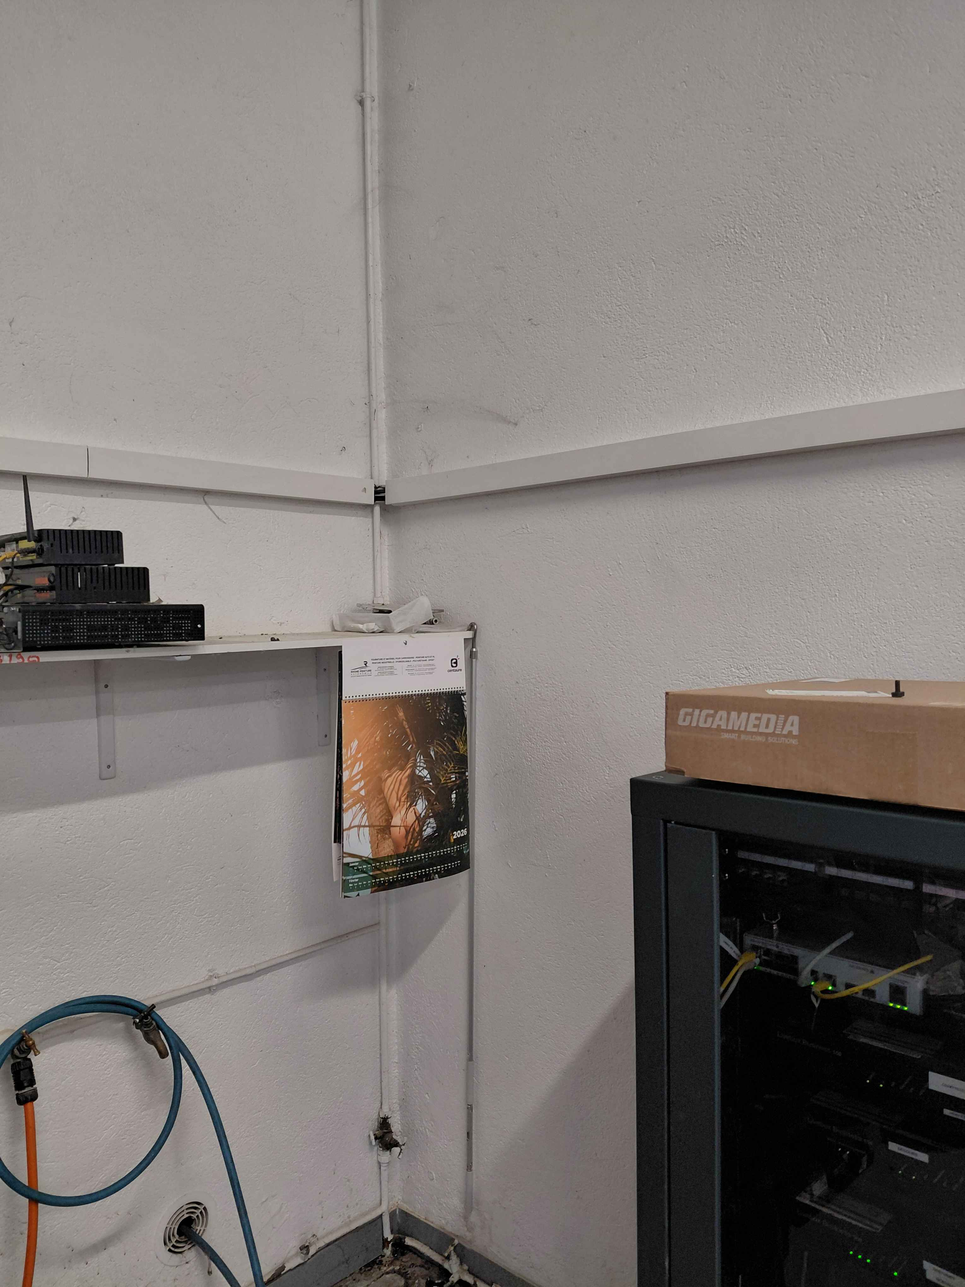
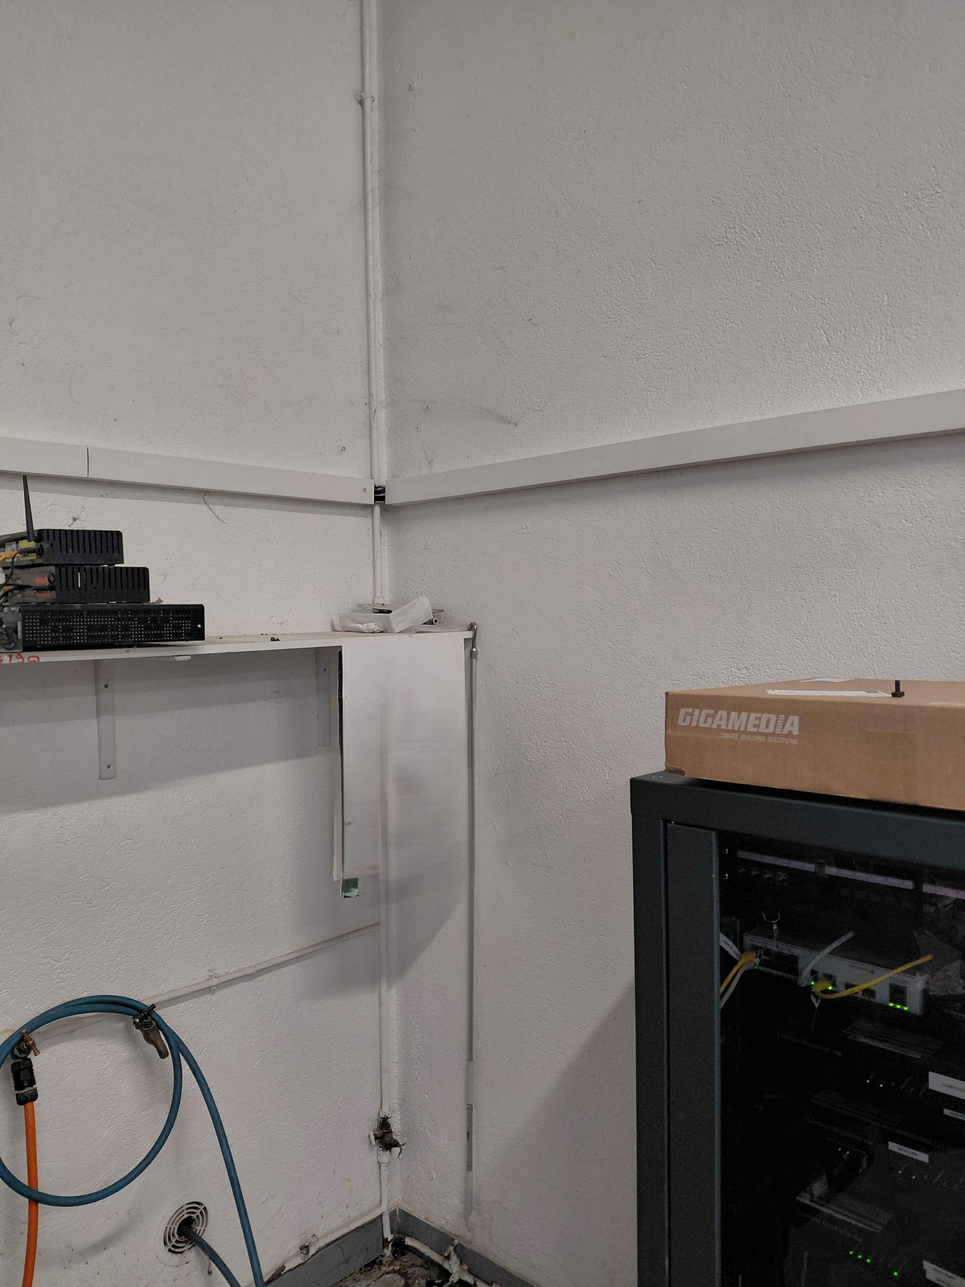
Add files via upload

Changed region(s): [[0.3415, 0.498, 0.4967, 0.7159]]

diff --git a/script.js b/script.js
@@ -25,19 +25,24 @@ const galleriesData = {
         description: 'Gestion, inventaire et maintenance du parc informatique',
         projects: [
             {
-                name: 'Réalisation de l\'inventaire du matériel informatique',
-                description: 'Réalisation d\'un inventaire complet des équipements informatiques de l\'entreprise',
+                name: 'Réalisation d\'un inventaire informatique',
+                description: 'Via l\'outil Excel et des étiquettes, l\'ensemble du matériel informatique a été référencé.',
                 images: [
-                    { src: '../assets/images/patrimoine1.jpg', alt: 'Inventaire 1' },
-                    { src: '../assets/images/patrimoine2.jpg', alt: 'Inventaire 2' }
+                    { src: '../projet-stage/inventaire/plan-rdc.png', alt: 'Plan RDC', caption: 'Plan RDC — localisation des équipements et des postes.' },
+                    { src: '../projet-stage/inventaire/plan-étage.png', alt: 'Plan étage', caption: 'Plan étage — répartition des postes par service.' },
+                    { src: '../projet-stage/inventaire/liste-complète.png', alt: 'Liste complète', caption: 'Liste complète exportée depuis Excel contenant l\'inventaire.' },
+                    { src: '../projet-stage/inventaire/liste-ecran-portable.png', alt: 'Liste écrans portables', caption: 'Détail des écrans portables identifiés et leurs caractéristiques.' },
+                    { src: '../projet-stage/inventaire/liste-précise.png', alt: 'Liste précise', caption: 'Fiche précise avec numéros d\'étiquettes et informations techniques.' },
+                    { src: '../projet-stage/inventaire/exemple-étiquette.jpg', alt: 'Exemple étiquette', caption: 'Exemple d\'étiquette utilisée pour l\'inventaire.' }
                 ]
             },
             {
-                name: 'Changement de poste',
-                description: 'Réalisation du déménagement et de la configuration des postes utilisateurs',
+                name: 'Changement de poste dû à leur ancienneté',
+                description: 'Des postes nécessitaient une modernisation ; de nouveaux PC ont été installés.',
                 images: [
-                    { src: '../projet-stage/changement-poste/changement-poste-1.jpg', alt: 'Changement de poste 1', caption: 'Démontage et migration d\'un poste vers son nouvel emplacement.' },
-                    { src: '../projet-stage/changement-poste/changement-poste-2.jpg', alt: 'Changement de poste 2', caption: 'Reconnexion, tests et validation de la nouvelle configuration.' }
+                    { src: '../projet-stage/changement-poste/ancien-pc.jpg', alt: 'Ancien PC', caption: 'Ancien PC — état avant remplacement.' },
+                    { src: '../projet-stage/changement-poste/nouveau-pc.jpg', alt: 'Nouveau PC', caption: 'Nouveau PC — modèle installé pour moderniser le poste.' },
+                    { src: '../projet-stage/changement-poste/install-windows-avec-données.jpg', alt: 'Installation Windows', caption: 'Installation de Windows avec migration des données et configuration finale.' }
                 ]
             }
         ]
@@ -47,11 +52,11 @@ const galleriesData = {
         description: 'Support utilisateur et gestion des incidents informatiques',
         projects: [
             {
-                name: 'Changement de poste',
-                description: 'Réalisation du déménagement et de la configuration des postes utilisateurs',
+                name: 'Test de connectique',
+                description: 'Test de connectique entre deux points reliés par un câble sous terre.',
                 images: [
-                    { src: '../projet-stage/changement-poste/changement-poste-1.jpg', alt: 'Changement de poste 1', caption: 'Démontage et migration d’un poste vers son nouvel emplacement.' },
-                    { src: '../projet-stage/changement-poste/changement-poste-2.jpg', alt: 'Changement de poste 2', caption: 'Reconnexion, tests et validation de la nouvelle configuration.' }
+                    { src: '../projet-stage/test-connectic/batiment-relier-cable-sous-terre.png', alt: 'Bâtiments reliés par câble sous terre', caption: 'Repérage des deux bâtiments reliés par le câblage enterré.' },
+                    { src: '../projet-stage/test-connectic/test-connect.jpg', alt: 'Test de connexion', caption: 'Vérification de la connectivité entre les deux points du réseau.' }
                 ]
             },
             {
@@ -65,32 +70,32 @@ const galleriesData = {
                 ]
             },
             {
-                name: 'Préparation de poste pour client',
-                description: 'Préparation complète de postes de travail avec installation automatisée',
+                name: 'Changement de poste dû à leur ancienneté',
+                description: 'Des postes nécessitaient une modernisation ; de nouveaux PC ont été installés.',
                 images: [
-                    { src: '../projet-stage/Préparation-postes/pc-prépa.jpg', alt: 'pc-prépa', caption: 'installation du pc à préparer' },
-                    { src: '../projet-stage/Préparation-postes/install-windows-neuf.jpg', alt: 'install-windows-neuf', caption: 'installation de Windows 11 pro à partir d\'une clé dédicacé avec un script pour passer les étapes d\'authentification' },
-                    { src: '../projet-stage/Préparation-postes/script-execution.jpg', alt: 'script-execution', caption: 'une fois Windows installé le script continus pour installer une liste d\'application utile' },
-                    { src: '../projet-stage/Préparation-postes/script-install.jpg', alt: 'script-install', caption: 'script PowerShell qui permet d\'automatiser l\'installation des applications' },
-                    { src: '../projet-stage/Préparation-postes/maj-windows.jpg', alt: 'maj-windows', caption: 'faire toutes les mises à jours Windows pour que les pc soient sur les dernières versions' },
-                    { src: '../projet-stage/Préparation-postes/maj-BIOS.jpg', alt: 'maj-BIOS', caption: 'faire les mises à jour du BIOS' },
-                    { src: '../projet-stage/Préparation-postes/maj-driver.jpg', alt: 'maj-driver', caption: 'installer toutes les dernières versions des pilotes' }
+                    { src: '../projet-stage/changement-poste/ancien-pc.jpg', alt: 'Ancien PC', caption: 'Ancien PC — état avant remplacement.' },
+                    { src: '../projet-stage/changement-poste/nouveau-pc.jpg', alt: 'Nouveau PC', caption: 'Nouveau PC — modèle installé pour moderniser le poste.' },
+                    { src: '../projet-stage/changement-poste/install-windows-avec-données.jpg', alt: 'Installation Windows', caption: 'Installation de Windows avec migration des données et configuration finale.' }
                 ]
             },
             {
-                name: 'Test de connectivité',
-                description: 'Contrôle de la qualité et de la disponibilité du réseau',
+                name: 'Hashcat',
+                description: 'Un fichier Excel bloqué par un mot de passe devait être débloqué. Après des tentatives classiques sans résultat, une solution de contournement a été testée avec Hashcat.',
                 images: [
-                    { src: '../projet-stage/test-connectic/test-connectivite-1.jpg', alt: 'Test connectivité 1', caption: 'Utilisation de testeurs réseau pour valider les câbles et équipements.' },
-                    { src: '../projet-stage/test-connectic/test-connectivite-2.jpg', alt: 'Test connectivité 2', caption: 'Validation de la connexion internet et du VLAN.' }
+                    { src: '../projet-stage/hashcat/fichier-excel.jpg', alt: 'Fichier Excel protégé', caption: 'Fichier source protégé par mot de passe à analyser.' },
+                    { src: '../projet-stage/hashcat/outil-pour-bon-paramètres.jpg', alt: 'Paramétrage de l\'outil', caption: 'Sélection des bons paramètres pour lancer l\'attaque de récupération.' },
+                    { src: '../projet-stage/hashcat/exec-hashcat.jpg', alt: 'Exécution de Hashcat', caption: 'Lancement de Hashcat et suivi de la progression de la recherche.' }
                 ]
             },
             {
-                name: 'Transfert de données',
-                description: 'Migration sécurisée des données des anciens postes vers les nouveaux',
+                name: 'Brassage',
+                description: 'L\'infrastructure d\'un garage avait besoin d\'une remise en état et d\'une évolution de son réseau.',
                 images: [
-                    { src: '../projet-stage/transfert-donnée/transfert-donnees-1.jpg', alt: 'Transfert données 1', caption: 'Configuration des sauvegardes et transfert initial via réseau local.' },
-                    { src: '../projet-stage/transfert-donnée/transfert-donnees-2.jpg', alt: 'Transfert données 2', caption: 'Validation finale et vérification de l\'intégrité des fichiers.' }
+                    { src: '../projet-stage/Brassage/infra-de-base.jpg', alt: 'Infrastructure de base', caption: 'État initial de l\'infrastructure avant intervention.' },
+                    { src: '../projet-stage/Brassage/baie-brassage.jpg', alt: 'Baie de brassage', caption: 'Préparation et organisation de la baie de brassage.' },
+                    { src: '../projet-stage/Brassage/brassage-equipement-restant.jpg', alt: 'Brassage des équipements restants', caption: 'Raccordement des derniers équipements réseau.' },
+                    { src: '../projet-stage/Brassage/brassge-cable-apparant.jpg', alt: 'Câble apparent', caption: 'Correction et reprise des passages de câbles apparents.' },
+                    { src: '../projet-stage/Brassage/Brassage-finit-complet.jpg', alt: 'Brassage final complet', caption: 'Résultat final après remise en forme complète du brassage.' }
                 ]
             }
         ]
@@ -100,17 +105,19 @@ const galleriesData = {
         description: 'Création et gestion de présence web et réseaux sociaux',
         projects: [
             {
-                name: 'LinkedIn',
-                description: 'Développement de la présence professionnelle sur LinkedIn',
+                name: 'Mes stages',
+                description: 'Dans le but de développer mon profil professionnel, j\'ai publié mes stages réalisés afin de renforcer ma visibilité auprès des entreprises concernées.',
                 images: [
-                    { src: '../assets/images/linkedin1.jpg', alt: 'LinkedIn 1' }
+                    { src: '../projet-stage/linkedin/experience-linkedin.png', alt: 'Expériences LinkedIn', caption: 'Publication des expériences de stage pour valoriser les missions réalisées.' },
+                    { src: '../projet-stage/linkedin/relation-linkedin.png', alt: 'Relations LinkedIn', caption: 'Développement du réseau professionnel grâce aux connexions et interactions.' }
                 ]
             },
             {
-                name: 'Portfolio',
-                description: 'Création et gestion d\'un portfolio en ligne',
+                name: 'Réalisation d\'une procédure',
+                description: 'Comme aucune procédure n\'existait pour la préparation des téléphones, je me suis chargé de la concevoir et de la formaliser.',
                 images: [
-                    { src: '../assets/images/portfolio1.jpg', alt: 'Portfolio 1' }
+                    { src: '../projet-stage/procédure/1.jpg', alt: 'Procédure - étape 1', caption: 'Structuration de la première partie de la procédure de préparation.' },
+                    { src: '../projet-stage/procédure/2.jpg', alt: 'Procédure - étape 2', caption: 'Finalisation de la procédure avec les étapes complètes et les contrôles.' }
                 ]
             }
         ]
@@ -120,34 +127,15 @@ const galleriesData = {
         description: 'Gestion de projets informatiques et collaboration d\'équipe',
         projects: [
             {
-                name: 'Migration système',
-                description: 'Migration vers un nouveau système d\'information',
+                name: 'Hackathon AIRBUS/RENAULT',
+                description: 'Une proposition de participer à un hackathon m\'a été faite, ce qui m\'a permis de comprendre comment les professionnels travaillent en mode projet.',
                 images: [
-                    { src: '../assets/images/projet1.jpg', alt: 'Migration 1' },
-                    { src: '../assets/images/projet2.jpg', alt: 'Migration 2' }
-                ]
-            },
-            {
-                name: 'Formation équipe',
-                description: 'Formation des équipes aux nouvelles méthodologies',
-                images: [
-                    { src: '../assets/images/projet3.jpg', alt: 'Formation 1' }
-                ]
-            },
-            {
-                name: 'Hackathon Hack4Scaria (Airbus / Renault)',
-                description: 'Participation au hackathon collaboratif pour développer des prototypes innovants',
-                images: [
-                    { src: '../assets/images/hackathon1.jpg', alt: 'Hackathon 1', caption: 'Atelier de conception avec les équipes Airbus et Renault.' },
-                    { src: '../assets/images/hackathon2.jpg', alt: 'Hackathon 2', caption: 'Présentation finale du projet devant les jurys.' }
-                ]
-            },
-            {
-                name: 'CTF cybersécurité CESI La Rochelle',
-                description: 'Épreuve de type capture the flag orientée cybersécurité',
-                images: [
-                    { src: '../assets/images/ctf1.jpg', alt: 'CTF 1', caption: 'Résolution de challenges réseau et exploitation.' },
-                    { src: '../assets/images/ctf2.jpg', alt: 'CTF 2', caption: 'Équipe en session de débogage et analyse de vulnérabilités.' }
+                    { src: '../projet-stage/hackathon/écran-autre-participant.jpg', alt: 'Écran autre participant', caption: 'Observation des autres équipes lors de la session.' },
+                    { src: '../projet-stage/hackathon/travail-postit.jpg', alt: 'Travail avec post-it', caption: 'Priorisation et organisation des tâches avec des post-it.' },
+                    { src: '../projet-stage/hackathon/session-travail.jpg', alt: 'Session de travail', caption: 'Travail collaboratif en équipe pendant le hackathon.' },
+                    { src: '../projet-stage/hackathon/guide.jpg', alt: 'Guide (à réorienter)', caption: 'Guide du hackathon — photo d\'une documentation (orientation corrigée à l\'affichage).', rotate: true },
+                    { src: '../projet-stage/hackathon/taille-guide.jpg', alt: 'Taille du guide', caption: 'Vue détaillée du guide distribué aux participants.' },
+                    { src: '../projet-stage/hackathon/photo-groupe-hack.jpg', alt: 'Photo de groupe', caption: 'Photo de l\'équipe et des participants à la clôture.' }
                 ]
             }
         ]
@@ -157,30 +145,61 @@ const galleriesData = {
         description: 'Déploiement et administration de services informatiques',
         projects: [
             {
-                name: 'Mise en place d\'un VPN',
-                description: 'Configuration et déploiement d\'un VPN pour télétravail sécurisé',
+                name: 'Préparation de poste pour client',
+                description: 'Préparation complète de postes de travail avec installation automatisée.',
                 images: [
-                    { src: '../projet-stage/VPN/vpn-setup-1.jpg', alt: 'VPN setup 1', caption: 'Déploiement des concentrateurs VPN et ouverture des ports nécessaires.' },
-                    { src: '../projet-stage/VPN/vpn-setup-2.jpg', alt: 'VPN setup 2', caption: 'Tests de connexion utilisateur et vérification de la sécurité.' }
+                    { src: '../projet-stage/Préparation-postes/pc-prépa.jpg', alt: 'PC à préparer', caption: 'Poste prêt à être déployé chez le client avant l’installation finale.' },
+                    { src: '../projet-stage/Préparation-postes/install-windows-neuf.jpg', alt: 'Installation Windows neuve', caption: 'Installation de Windows 11 Pro à partir d’une clé dédiée et d’un script d’automatisation.' },
+                    { src: '../projet-stage/Préparation-postes/script-execution.jpg', alt: 'Exécution du script', caption: 'Le script poursuit l’installation automatisée des applications utiles.' },
+                    { src: '../projet-stage/Préparation-postes/script-install.jpg', alt: 'Script d’installation', caption: 'Script PowerShell utilisé pour automatiser l’installation logicielle.' },
+                    { src: '../projet-stage/Préparation-postes/maj-windows.jpg', alt: 'Mises à jour Windows', caption: 'Application des mises à jour Windows pour livrer des postes à jour.' },
+                    { src: '../projet-stage/Préparation-postes/maj-BIOS.jpg', alt: 'Mise à jour du BIOS', caption: 'Mise à jour du BIOS pour garantir stabilité et compatibilité.' },
+                    { src: '../projet-stage/Préparation-postes/maj-driver.jpg', alt: 'Mise à jour des pilotes', caption: 'Installation des dernières versions de pilotes matériels.' }
                 ]
             },
             {
-                name: 'configurer un switch avec plusieurs VLAN',
-                description: 'configurer un switch avec plusieurs VLAN',
+                name: 'Synchronisation entre deux logiciels',
+                description: 'Synchronisation des évènements entre l’application Outlook et ClickUp.',
                 images: [
-                    { src: '../projet-stage/VLAN/switch.jpg', alt: 'switch', caption: 'photo du switch une fois déballé et branché' },
-                    { src: '../projet-stage/VLAN/Plan-vlan.jpg', alt: 'plan-vlan', caption: 'configuration demandés par le client des différents VLAN' },
-                    { src: '../projet-stage/VLAN/trouver-adresse-switch.jpg', alt: 'trouver-adresse-switch', caption: 'utiliser l\'outil Advanced ip scanner pour retrouver l\'adresse ip forunit en DHCP du switch' },
-                    { src: '../projet-stage/VLAN/config-du-vlan.jpg', alt: 'config-du-vlan', caption: 'mapper tous les ports qui votn aux différents VLAN' },
-                    { src: '../projet-stage/VLAN/test-connectic.jpg', alt: 'test-connectic', caption: 'test de connection entre deux machines présentes dans le même VLAN' }
+                    { src: '../projet-stage/synchronisation/partie-déjà-faite.png', alt: 'Partie déjà faite', caption: 'Première étape déjà réalisée pour préparer la synchronisation entre les deux outils.' },
+                    { src: '../projet-stage/synchronisation/Première-version-Outlook.png', alt: 'Première version Outlook', caption: 'Première version du flux de synchronisation depuis Outlook.' },
+                    { src: '../projet-stage/synchronisation/Exemple-recupération-données.png', alt: 'Exemple de récupération des données', caption: 'Exemple de récupération des données avant traitement et envoi vers ClickUp.' },
+                    { src: '../projet-stage/synchronisation/Toute-fonctionnalités_cu-vers-Out.png', alt: 'Fonctionnalités ClickUp vers Outlook', caption: 'Vue d’ensemble des fonctionnalités de synchronisation de ClickUp vers Outlook.' },
+                    { src: '../projet-stage/synchronisation/correction-des-éléments.png', alt: 'Correction des éléments', caption: 'Correction des éléments pour fiabiliser les échanges entre les deux logiciels.' },
+                    { src: '../projet-stage/synchronisation/Outlook-vers-cu-v2.png', alt: 'Outlook vers ClickUp v2', caption: 'Version améliorée de la synchronisation d’Outlook vers ClickUp.' },
+                    { src: '../projet-stage/synchronisation/réussite-test.png', alt: 'Réussite du test', caption: 'Validation finale du fonctionnement attendu lors des tests.' },
+                    { src: '../projet-stage/synchronisation/Réception-mail.png', alt: 'Réception du mail', caption: 'Réception du mail confirmant le bon déroulement de la synchronisation.' }
                 ]
             },
             {
-                name: 'Mise en place d\'imprimantes',
-                description: 'Installation et partage des imprimantes sur le réseau',
+                name: 'Préparation de téléphones',
+                description: 'Préparation de téléphones pour le client AMEL, chantier naval.',
                 images: [
-                    { src: '../projet-stage/imprimante/imprimante-1.jpg', alt: 'Imprimante 1', caption: 'Installation physique et connexion réseau des imprimantes.' },
-                    { src: '../projet-stage/imprimante/imprimante-2.jpg', alt: 'Imprimante 2', caption: 'Configuration des pilotes et tests d\'impression.' }
+                    { src: '../projet-stage/téléphones/liste-prépa.png', alt: 'Liste de préparation', caption: 'Liste de préparation utilisée pour organiser les téléphones à configurer.' },
+                    { src: '../projet-stage/téléphones/liste-tel.png', alt: 'Liste des téléphones', caption: 'Inventaire des téléphones à traiter pour la préparation initiale.' },
+                    { src: '../projet-stage/téléphones/dashboard-full-tel.png', alt: 'Dashboard complet', caption: 'Tableau de bord complet pour suivre l’avancement de la préparation.' },
+                    { src: '../projet-stage/téléphones/exemple-prépa.png', alt: 'Exemple de préparation', caption: 'Exemple d’une préparation terminée avec les contrôles effectués.' },
+                    { src: '../projet-stage/téléphones/excel-info.png', alt: 'Informations Excel', caption: 'Fichier Excel regroupant les informations utiles pour chaque appareil.' }
+                ]
+            },
+            {
+                name: 'Installation d\'un VPN site à site',
+                description: 'Dans le besoin d’accéder à des ressources à distance, un VPN de site à site est la solution.',
+                images: [
+                    { src: '../projet-stage/VPN/sophos-fw.jpg', alt: 'Pare-feu Sophos', caption: 'Mise en place du pare-feu Sophos pour sécuriser le tunnel site à site.' },
+                    { src: '../projet-stage/VPN/test-vpn.jpg', alt: 'Test du VPN', caption: 'Test de fonctionnement pour vérifier la connexion entre les deux sites.' },
+                    { src: '../projet-stage/VPN/install-sophos.jpg', alt: 'Installation Sophos', caption: 'Installation et configuration initiale de la solution Sophos.' }
+                ]
+            },
+            {
+                name: 'Préparation de VLAN',
+                description: 'Un nouveau switch a été reçu et des VLAN devaient être configurés.',
+                images: [
+                    { src: '../projet-stage/VLAN/switch.jpg', alt: 'Switch', caption: 'Nouveau switch déballé et prêt pour la configuration.' },
+                    { src: '../projet-stage/VLAN/Plan-vlan.jpg', alt: 'Plan des VLAN', caption: 'Plan de configuration des différents VLAN demandés.' },
+                    { src: '../projet-stage/VLAN/trouver-adresse-switch.jpg', alt: 'Recherche de l’adresse du switch', caption: 'Recherche de l’adresse IP du switch attribuée en DHCP.' },
+                    { src: '../projet-stage/VLAN/config-du-vlan.jpg', alt: 'Configuration des VLAN', caption: 'Affectation des ports aux différents VLAN selon le plan prévu.' },
+                    { src: '../projet-stage/VLAN/test-connectic.jpg', alt: 'Test de connectivité', caption: 'Test de communication entre deux machines placées dans le même VLAN.' }
                 ]
             }
         ]
@@ -188,23 +207,7 @@ const galleriesData = {
     developpement: {
         title: 'Organiser son développement professionnel',
         description: 'Formation continue et développement des compétences',
-        projects: [
-            {
-                name: 'Plan de formation',
-                description: 'Établissement d\'un plan de développement professionnel',
-                images: [
-                    { src: '../assets/images/dev1.jpg', alt: 'Formation 1' },
-                    { src: '../assets/images/dev2.jpg', alt: 'Formation 2' }
-                ]
-            },
-            {
-                name: 'Certification technique',
-                description: 'Obtention de certifications informatiques',
-                images: [
-                    { src: '../assets/images/dev3.jpg', alt: 'Certification 1' }
-                ]
-            }
-        ]
+        projects: []
     }
 };
 
@@ -388,8 +391,16 @@ function updateGalleryImage() {
     if (!project) return;
     
     const imageEl = document.getElementById('galleryImage');
-    imageEl.src = project.images[currentImageIndex].src;
-    imageEl.alt = project.images[currentImageIndex].alt;
+    const imgObj = project.images[currentImageIndex];
+    imageEl.src = imgObj.src;
+    imageEl.alt = imgObj.alt || '';
+
+    // Appliquer une classe pour corriger l'orientation si nécessaire
+    if (imgObj.rotate) {
+        imageEl.classList.add('rotate-correct');
+    } else {
+        imageEl.classList.remove('rotate-correct');
+    }
     
     // Mettre à jour les indicateurs
     const indicators = document.querySelectorAll('.gallery-indicator');

diff --git a/styles.css b/styles.css
@@ -693,6 +693,12 @@ nav a.active::after {
     background-color: var(--border);
 }
 
+/* Classe pour corriger l'orientation des images mal pivotées */
+.gallery-image-container img.rotate-correct {
+    transform: rotate(90deg);
+    transition: transform 0.25s ease;
+}
+
 .gallery-arrow {
     background-color: var(--accent);
     color: white;
